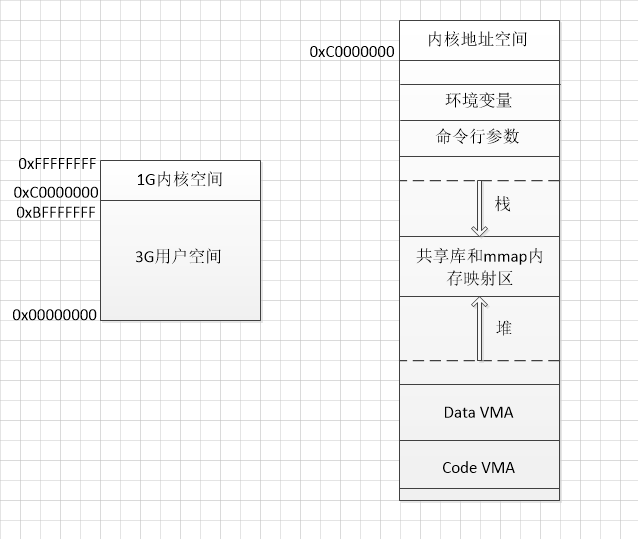
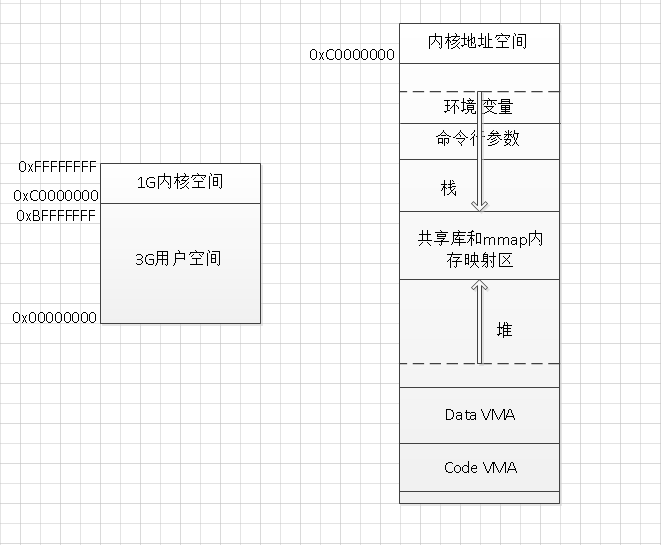
linux process

Changed region(s): [[0.0, 0.0, 1.0, 1.0], [0.2085, 0.4453, 0.3574, 0.5046], [0.5063, 0.4156, 0.5361, 0.475]]

diff --git a/_posts/2013-11-16-Linux进程地址空间再学习.md b/_posts/2013-11-16-Linux进程地址空间再学习.md
@@ -1,0 +1,220 @@
+---
+layout: post
+category: Linux
+tags: Linux
+description: 再看linux进程地址空间
+---
+
+之前就有缕清进程地址空间的一丝想法，很拙劣的记录了两篇博客，[这儿](http://www.choudan.net/2013/10/24/Linux进程地址空间学习%28一%29.html)和[这儿](http://www.choudan.net/2013/10/25/Linux进程地址空间学习%28二%29.html)，但是在尝试学习Linux进程地址空间的过程中，发现此问题并非一两篇博客可以描述的清楚，中间涉及到很多知识，并且再回头看这两篇博客，发现其中的内容更多的是一种堆砌，与网上已有的博文相差无几，失去了意义。
+
+在开始正式的内容之前，还是强烈推荐下《程序员的自我修养》一书，书中详细的介绍了程序的链接，装载与库。Linux的进程地址空间与这些内容息息相关，此书会解读大部分关于进程地址空间的疑惑。
+
+### 程序的编译
+****
+
+从编写的代码到最终成为可运行的程序需要经过几个阶段，而这几个阶段往往都由强大的编译器一带而过，呈现给我们一个可执行文件，例如简单的一行命令`gcc hello.c`，并得到了可执行文件a.out。这个简单命令背后则包含了对程序代码的多个阶段的处理，我们熟知的预处理，编译，汇编和链接，而这多个阶段可能被模糊笼统的称为编译了。其实仔细琢磨会发现，链接不同于编译，却也是一个至关重要的过程，也是引导我们探索进程地址空间的一个入口。
+
+> 预处理阶段主要处理源代码文件中的以`#`开始的预处理指令，编译过程则需要词法，语法，语义分析，优化后生成汇编代码，汇编阶段则将汇编代码转成机器可执行的指令，汇编过后输出的文件一般称之为目标文件。对于最后一个阶段，链接，则是将多个目标文件链接成可执行文件。更详细的描述参考此文章:[C程序的编译过程](http://blog.csdn.net/lwla2/article/details/1437402)。
+
+我们先聚焦在链接上。
+
+现在编写的程序越趋复杂庞大，往往包含多个源码文件，并且还会引用一个或多个库文件。编译器在编译源码的过程中，则是对每个文件单独编译的，然后将这些编译之后生成的目标文件与引用的库组装成可执行的文件。这个组装的过程就是所谓的链接，从程序的角度来看，就是要解决各个模块之间相互引用的问题，为所有的函数变量这些符号的引用产生正确的地址。
+
+对于链接的理解，我们可以举一个很简单的例子， 摘自《程序员的自我修养》98页：
+
+    /* a.c */
+    extern int shared;
+
+    int main(){
+        int a = 100;
+        swap(&a, &shared);
+    }
+
+    /* b.c */
+
+    int shared = 1;
+
+    void swap(int* a , int* b){
+        *a ^= *b ^= *a ^= *b;
+    }
+
+假设编写的程序只有上面两个文件，在a.c文件中，很明显存在两个外部符号，shared和main，这两个符号都引用于b.c文件。编译器是单独编译a.c和b.c文件，生成a.o与b.o两个目标文件， 最后再将这两个目标文件链接成可执行文件。然而在生成目标文件a.o的过程中是无法找到shared和swap的正确地址的，所以需要在链接过程来解决此问题。这个简单的例子告诉我们链接在程序编译过程中的重要性了。
+
+我们知道链接还有所谓的静态链接和动态链接之分，在理解二者的区别之前，我们来看下面这张图，两种链接的不同过程。图还是从《程序员的自我修养》中截取过来的。
+
+<img src="/assets/img/linux_program_linker_01.png" width="700px">
+
+对比两个过程，我们会发现二者的不同之处在链接阶段。静态链接会把libc.a等静态库文件和源码生成的目标文件链接到一块，整体打包生成一个可执行文件，而动态链接则是lib.so等动态库文件只参与到链接过程，并不会和源码生成的目标文件组成一个整体，lib.so库文件而是在程序运行时期加载。显然，动态链接库解决了内存和磁盘空间浪费，模块更新的诸多问题。在后面的进程地址空间中我们将会再看到动态链接库。
+
+### ELF文件格式
+***
+
+对静态链接与动态链接有基本的了解之后，我们需要明白，目标文件得按照一定的格式来组织，以便链接器获取足够的信息完成这两种链接过程。当然，目标文件的格式不止限于链接这种作用。可执行文件在被执行之前需要进行装载，操作系统要友好的将其载入到进程的地址空间中，同样，可执行文件也得按照一定格式组织。
+
+前面我们了解了所谓的链接，即读取目标文件中的相关信息解决符号跨模块之间的引用问题。那么执行是个什么基本过程了？《程序员的自我修养》中讲到，很多时候一个程序被执行同时都伴随着一个新的进程的创建，那么最通常的情形便是：创建一个进程，然后装载相应的可执行文件并且执行。在有虚拟存储的情况下，上述过程的最开始只需要做三件事情：
+
+> 创建一个独立的虚拟地址空间;
+
+> 读取可执行文件头，并且建立虚拟空间与可执行文件的映射关系;
+
+> 将CPU的指令寄存器设置成可执行文件的入口地址，启动运行;
+
+
+第一步完成了虚拟空间到物理内存的映射关系，而第二步专注于虚拟空间与可执行文件的映射关系。这样，当程序执行发生页错误时，操作系统知道程序当前所需要的页在可执行文件中的哪一个位置。从某种角度来说，第二步应该是整个装载过程中最重要的一步。那么可执行文件到底是怎样与虚拟空间映射起来的了？
+
+我们先了解下可执行文件结构，然后尝试回答上面的问题！
+
+可执行文件的设计者们则将目标文件的格式与可执行文件的格式进行了统一，均为ELF格式文件，该文件格式提供了两种视图，如下，是ELF文件的基本格式，左边是链接视图，右边是执行视图。
+
+<img src="/assets/img/linux_elf_01.png" width="400px">
+
+从图中可以看出，存在section与segment两种概念，中文皆可理解为段，我们稍加以区分，section主要面向链接过程，segment则面向执行过程。实际上，一个segment是由多个section构成，也就是我们在x86架构中常听到的段。
+
+对于这两种视图，我们给出一个简单的例子，然后来观察和验证。
+
+    #include<iostream>
+
+    using namespace std;
+
+    int global_a = 100;
+    int global_b;
+    static int global_static_a = 200;
+
+    int main(){
+        static int main_static_b = 200;
+        static int main_static_c;
+        cout << "Hello World" << endl;
+        return 0;
+    }
+
+    chouan@ubuntu:~/coding/cpp$ g++ hello.cpp
+
+编译之后观察结果，通过命令`readelf -S a.out`来查看该执行文件中都有哪些section，结果如下：
+
+    Section Headers:
+      [Nr] Name              Type            Addr     Off    Size   ES Flg Lk Inf Al
+      [ 0]                   NULL            00000000 000000 000000 00      0   0  0
+      [ 1] .interp           PROGBITS        08048154 000154 000013 00   A  0   0  1
+      [ 2] .note.ABI-tag     NOTE            08048168 000168 000020 00   A  0   0  4
+      [ 3] .note.gnu.build-i NOTE            08048188 000188 000024 00   A  0   0  4
+      [ 4] .gnu.hash         GNU_HASH        080481ac 0001ac 000030 04   A  5   0  4
+      [ 5] .dynsym           DYNSYM          080481dc 0001dc 0000c0 10   A  6   1  4
+      [ 6] .dynstr           STRTAB          0804829c 00029c 00014b 00   A  0   0  1
+      [ 7] .gnu.version      VERSYM          080483e8 0003e8 000018 02   A  5   0  2
+      [ 8] .gnu.version_r    VERNEED         08048400 000400 000050 00   A  6   2  4
+      [ 9] .rel.dyn          REL             08048450 000450 000010 08   A  5   0  4
+      [10] .rel.plt          REL             08048460 000460 000040 08   A  5  12  4
+      [11] .init             PROGBITS        080484a0 0004a0 00002e 00  AX  0   0  4
+      [12] .plt              PROGBITS        080484d0 0004d0 000090 04  AX  0   0 16
+      [13] .text             PROGBITS        08048560 000560 0001fc 00  AX  0   0 16
+      [14] .fini             PROGBITS        0804875c 00075c 00001a 00  AX  0   0  4
+      [15] .rodata           PROGBITS        08048778 000778 000014 00   A  0   0  4
+      [16] .eh_frame_hdr     PROGBITS        0804878c 00078c 000044 00   A  0   0  4
+      [17] .eh_frame         PROGBITS        080487d0 0007d0 000104 00   A  0   0  4
+      [18] .init_array       INIT_ARRAY      08049ef8 000ef8 000004 00  WA  0   0  4
+      [19] .ctors            PROGBITS        08049efc 000efc 000008 00  WA  0   0  4
+      [20] .dtors            PROGBITS        08049f04 000f04 000008 00  WA  0   0  4
+      [21] .jcr              PROGBITS        08049f0c 000f0c 000004 00  WA  0   0  4
+      [22] .dynamic          DYNAMIC         08049f10 000f10 0000e0 08  WA  6   0  4
+      [23] .got              PROGBITS        08049ff0 000ff0 000004 04  WA  0   0  4
+      [24] .got.plt          PROGBITS        08049ff4 000ff4 00002c 04  WA  0   0  4
+      [25] .data             PROGBITS        0804a020 001020 000014 00  WA  0   0  4
+      [26] .bss              NOBITS          0804a040 001034 0000a0 00  WA  0   0 32
+      [27] .comment          PROGBITS        00000000 001034 00002a 01  MS  0   0  1
+      [28] .shstrtab         STRTAB          00000000 00105e 000108 00      0   0  1
+      [29] .symtab           SYMTAB          00000000 001640 000500 10     30  52  4
+      [30] .strtab           STRTAB          00000000 001b40 0003c3 00      0   0  1
+    Key to Flags:
+      W (write), A (alloc), X (execute), M (merge), S (strings)
+      I (info), L (link order), G (group), T (TLS), E (exclude), x (unknown)
+      O (extra OS processing required) o (OS specific), p (processor specific)
+
+从上面这个结果，我们发现一个简单的可执行文件中包含了很多的section，其中有些我们比较熟悉的，例如.text，.data，.bss等等，并且很多section的flag标志都一样，这点跟后面的segment有很大关系。对于每个section的意义，我们可以从[这篇博文中](http://www.choudan.net/2013/10/25/Linux进程地址空间学习%28二%29.html)窥见一二。
+
+上面是从链接的视图来看可执行文件，我们再从执行视图的角度来看，通过这条命令`readelf --segments a.out`：
+
+    There are no section groups in this file.
+
+    Program Headers:
+      Type           Offset   VirtAddr   PhysAddr   FileSiz MemSiz  Flg Align
+      PHDR           0x000034 0x08048034 0x08048034 0x00120 0x00120 R E 0x4
+      INTERP         0x000154 0x08048154 0x08048154 0x00013 0x00013 R   0x1
+          [Requesting program interpreter: /lib/ld-linux.so.2]
+      LOAD           0x000000 0x08048000 0x08048000 0x008d4 0x008d4 R E 0x1000
+      LOAD           0x000ef8 0x08049ef8 0x08049ef8 0x0013c 0x001e8 RW  0x1000
+      DYNAMIC        0x000f10 0x08049f10 0x08049f10 0x000e0 0x000e0 RW  0x4
+      NOTE           0x000168 0x08048168 0x08048168 0x00044 0x00044 R   0x4
+      GNU_EH_FRAME   0x00078c 0x0804878c 0x0804878c 0x00044 0x00044 R   0x4
+      GNU_STACK      0x000000 0x00000000 0x00000000 0x00000 0x00000 RW  0x4
+      GNU_RELRO      0x000ef8 0x08049ef8 0x08049ef8 0x00108 0x00108 R   0x1
+
+     Section to Segment mapping:
+      Segment Sections...
+       00     
+       01     .interp 
+       02     .interp .note.ABI-tag .note.gnu.build-id .gnu.hash .dynsym .dynstr .gnu.version .gnu.version_r .rel.dyn .rel.plt .init .plt .text .fini .rodata .eh_frame_hdr .eh_frame 
+       03     .init_array .ctors .dtors .jcr .dynamic .got .got.plt .data .bss 
+       04     .dynamic 
+       05     .note.ABI-tag .note.gnu.build-id 
+       06     .eh_frame_hdr 
+       07     
+       08     .init_array .ctors .dtors .jcr .dynamic .got 
+
+
+显然，给出的结果已经告诉我们了，segment是section的一个集合，sections按照一定规则映射到segment。那么为什么需要区分两种不同视图了？
+
+我们知道，不同的section可能具有不同的属性，例如，.text是可读可执行的，而.data是可读可写的，.bss也是可读可写的等等。操作系统往往以页为基本单位来管理内存分配，一般页的大小为4096B，即4KB的大小。同样，内存的权限管理的粒度也是以页为单位，页内的内存是具有同样的权限等属性，并且操作系统对内存的管理往往追求高效和高利用率这样的目标。ELF文件在被映射时，是以系统的页长度为单位的，那么每个section在映射时的长度都是系统页长度的整数倍，如果section的长度不是其整数倍，则导致多余部分也将占用一个页。而我们从上面的例子中知道，一个ELF文件具有很多的section，那么会导致内存浪费严重。这样，ELF文件格式就考虑到这些特点，在执行的角度，将程序中具有相同权限的section划分到同一个segment当中，可执行文件在装载时，则以segment为单位进行映射，对应于进程虚拟空间中的VMA（虚拟内存区域）。这样则减少了页面内部的碎片，节省了空间，显著的提高了内存利用率。
+
+### 进程地址空间
+****
+
+每个程序都拥有独立的虚拟地址空间，虚拟地址空间通过某种方式映射到物理内存。这样，每个进程都拥有一个连续完整的地址空间，并且同其他的进程区别开来。在程序的运行过程中，再完成虚拟地址到物理地址的转换。我们知道，进程的地址空间是分段的，存在所谓的数据段，代码段，bbs段，堆，栈等等。每个段都有特定的作用，仔细看下面这张图，就对进程地址空间中的结构有了大致的了解。
+
+<img src="/assets/img/linux_process_address_space_02.png" width="700px">
+
+对于32位的机器来说，虚拟的地址空间大小就是4G，可能实际的物理内存大小才1G到2G，意味着程序可以使用比物理内存更大的空间。
+
+* 从0xc000000000到0xFFFFFFFF共1G的大小是内核地址空间（后面再探讨内核地址空间，先重点关注用户地址空间），余下的低地址3G空间则是用户地址空间。
+* Code VMA: 即程序的代码段，CPU执行的机器指令部分。通常，这一段是可以共享的，即多线程共享进程的代码段。并且，此段是只读的，不能修改。
+* Data VMA: 即程序的数据段，包含ELF文件在中的data段和bss段。
+* 堆和栈: 这两个大家都十分熟悉了，new或者malloc分配的空间在堆上，需要程序猿维护，若没有主动释放堆上的空间，进程运行结束后会被释放。栈上的是函数栈临时的变量，还有程序的局部变量，自动释放。`值得注意的是，在栈初始化时，即栈顶部会存放环境变量和命令行参数`。
+* 共享库和mmap内容映射区：位于栈和堆之间，例如程序使用的printf，函数共享库printf.o固定在某个物理内存位置上，让许多进程映射共享。mmap是一个系统函数，可以把磁盘文件的一部分直接映射到内存，这样文件中的位置直接就有对应的内存地址。此处参考后面的第三条。
+
+对进程的地址空间有了初步了解之后，现在我们可以从下面这张图来看到ELF文件中的section或segment与地址空间的具体映射关系：
+
+<img src="/assets/img/linux_process_address_space_03.png" width="700px">
+
+很多时候，我们会遇到`stack overflow`这样的问题，应该进程的栈空间被耗没了，linux进程栈的大小，我们可以通过`ulimit -a | grep stack`来查看，例如在我的32位 Ubuntu机器上，显示的结果是8192KB。可能大家还会有一个疑问，动态分配的空间最大可以分配到多大了？即通过malloc可以最大申请到多少的内存？《程序员的自我修养》给出了一个简单的小程序来测试，在我的机器下运行的结果大概是1.36GB左右的空间。
+
+    #include<stdio.h>
+    #include<stdlib.h>
+
+    unsigned max = 0;
+
+    void main(){
+        unsigned int blocksize[] = {1024*1024, 1024, 1};
+        int i, count;
+        for(i = 0; i < 3; ++i){
+            for(count = 1; ; ++count){
+                void *block = malloc(max + blocksize[i]*count);
+                if(block){
+                    max = max + blocksize[i]*count;
+                    free(block);
+                }else{
+                    break;
+                }
+            }
+        }
+        printf("maximum malloc size = %u bytes\n", max);
+    }
+
+实际上malloc的最大申请数量会受到操作系统版本，程序本身大小，用到的动态或共享库数量以及大小，程序栈的数量和大小等等，甚至有可能每次运行的结果都会不同，因为操作系统会使用一种叫做随机地址空间分布的技术，使得进程的空间变小。
+
+### 总结
+****
+
+对进程地址空间的初步认识就到这了，还有很多具体的问题没有阐述，例如
+
+> 进程下的多线程能共享地址空间中的哪些区域，高地址区域的内核地址空间到底是个什么情况，mmap内存映射区到底是如何实现的等等。
+
+下次一点一滴的将这些知识补齐，再记录到自己的博客上。在学习进程地址空间的过程中，查了很多资料，其中最为受用的还是《程序员的自我修养》一书，全面，详细，整个内容连贯一气呵成。
